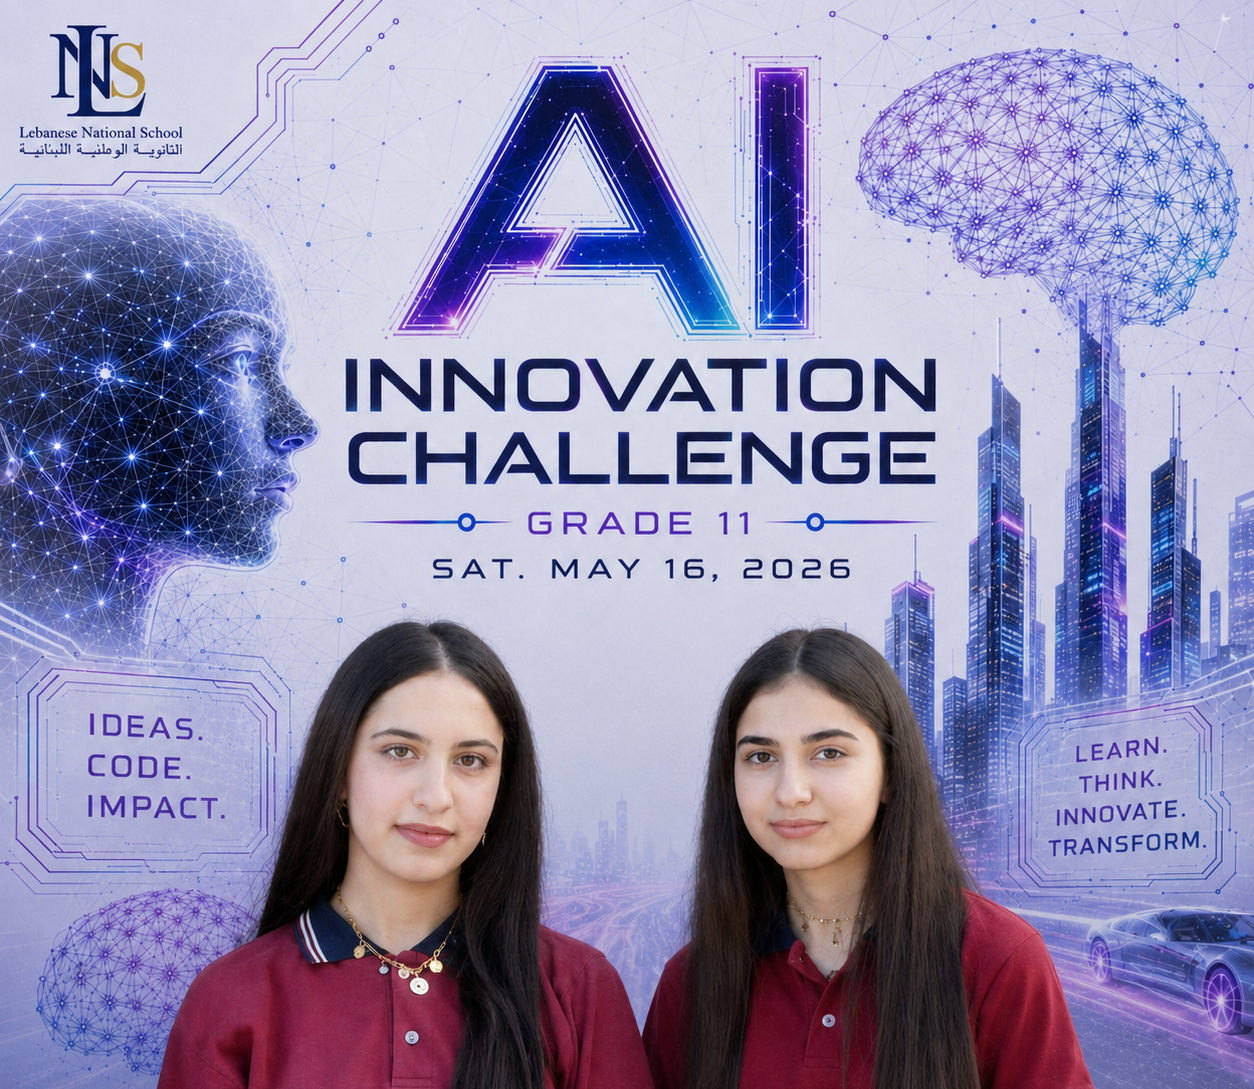
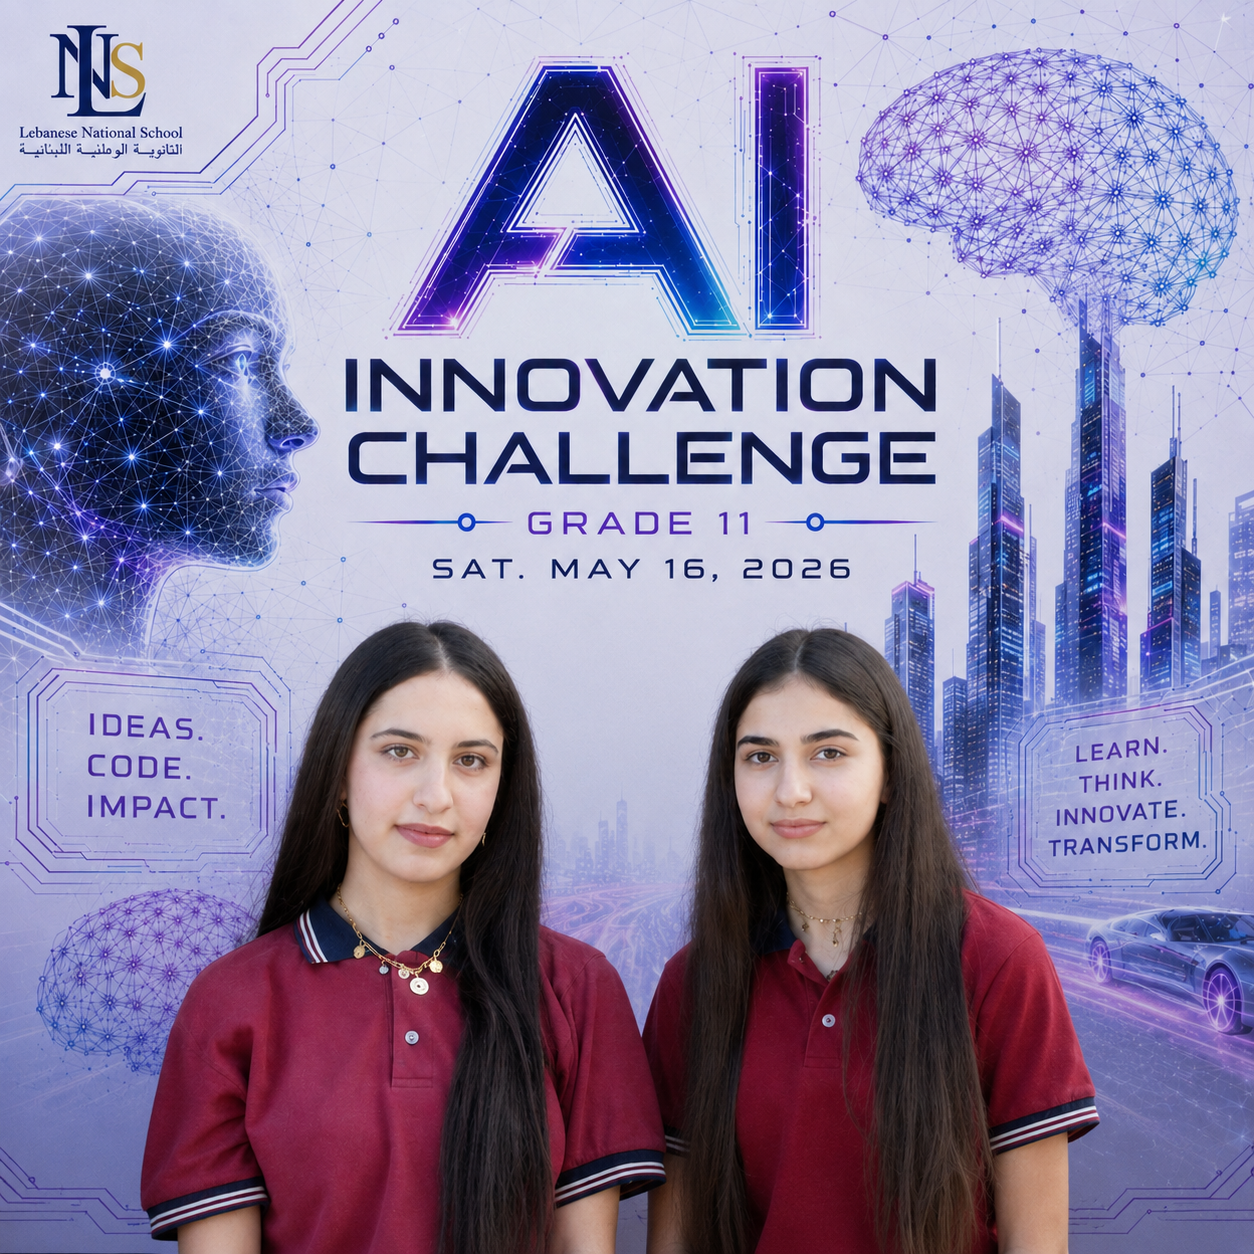
Update group images and enhance voting page styles

diff --git a/Grade 10+11+12/AI System Design/voting.html b/Grade 10+11+12/AI System Design/voting.html
@@ -331,11 +331,11 @@ body::after {
 
 /* ── JUDGE & STUDENT GRIDS ── */
 .group-grid { display: grid; grid-template-columns: repeat(auto-fill, minmax(140px, 1fr)); gap: 16px; margin-bottom: 24px; }
-.group-card { position: relative; cursor: pointer; border-radius: 14px; overflow: hidden; background: rgba(255,255,255,0.05); border: 2px solid rgba(255,255,255,0.1); transition: all 0.2s; }
+.group-card { position: relative; cursor: pointer; border-radius: 14px; overflow: hidden; background: rgba(255,255,255,0.05); border: 2px solid rgba(255,255,255,0.1); transition: all 0.2s; aspect-ratio: 1; }
 .group-card:hover { border-color: var(--gold); transform: translateY(-2px); }
 .group-card.voted { border-color: var(--gold); background: rgba(245,186,56,0.1); }
 .group-card.selected { border-color: var(--gold); background: rgba(245,186,56,0.2); }
-.group-card img { width: 100%; height: 140px; object-fit: cover; display: block; }
+.group-card img { width: 100%; height: 100%; object-fit: cover; display: block; }
 .group-card .card-label { padding: 10px 8px; font-family: 'Barlow Condensed', sans-serif; font-size: 0.75rem; font-weight: 700; color: var(--white); text-align: center; line-height: 1.2; }
 .group-card::after { content: '✓'; position: absolute; top: 6px; right: 6px; width: 28px; height: 28px; background: var(--gold); color: var(--navy); border-radius: 50%; display: flex; align-items: center; justify-content: center; font-size: 1.2rem; font-weight: 700; opacity: 0; transition: opacity 0.2s; }
 .group-card.voted::after { opacity: 1; }
@@ -344,7 +344,6 @@ body::after {
 .student-grid .section-heading { margin-bottom: 16px; }
 .student-grid .group-grid { grid-template-columns: repeat(auto-fill, minmax(120px, 1fr)); gap: 12px; }
 .student-grid .group-card { border: 1px solid rgba(255,255,255,0.1); }
-.student-grid .group-card img { height: 110px; }
 .student-grid .group-card .card-label { padding: 8px 6px; font-size: 0.7rem; }
 
 .judge-grid-section { margin-bottom: 24px; }
@@ -359,15 +358,12 @@ body::after {
 @media (max-width: 768px) {
   .group-grid { grid-template-columns: repeat(auto-fill, minmax(110px, 1fr)); gap: 12px; }
   .judge-grid-container .group-grid { grid-template-columns: repeat(auto-fill, minmax(130px, 1fr)); }
-  .judge-grid-container .group-card img { height: 130px; }
-  .group-card img { height: 110px; }
+  .group-card .card-label { padding: 8px 6px; font-size: 0.7rem; }
 }
 
 @media (max-width: 600px) {
   .group-grid { grid-template-columns: repeat(auto-fill, minmax(100px, 1fr)); gap: 10px; }
   .judge-grid-container .group-grid { grid-template-columns: repeat(auto-fill, minmax(100px, 1fr)); }
-  .group-card img { height: 100px; }
-  .judge-grid-container .group-card img { height: 100px; }
 }
 </style>
 </head>

diff --git a/index.html b/index.html
@@ -212,6 +212,40 @@
             margin-top: 8px;
         }
 
+        .powered-by {
+            color: #6b7280;
+            font-size: 0.75rem;
+            text-align: center;
+            margin-top: 16px;
+            padding-top: 12px;
+            border-top: 1px solid rgba(255, 255, 255, 0.1);
+        }
+
+        .powered-by a {
+            color: #9ca3af;
+            text-decoration: none;
+            transition: color 0.2s;
+            margin: 0 4px;
+        }
+
+        .powered-by a:hover {
+            color: #ffff00;
+        }
+
+        .whatsapp-icon {
+            display: inline-flex;
+            align-items: center;
+            gap: 4px;
+        }
+
+        .whatsapp-icon svg {
+            transition: transform 0.2s;
+        }
+
+        .whatsapp-icon:hover svg {
+            transform: scale(1.2);
+        }
+
         @media(max-width:500px) {
             .grid {
                 grid-template-columns: 1fr;
@@ -363,6 +397,16 @@
 
         </div>
         <footer>© 2026 Tech &amp; AI Classes · Empowering the next generation of innovators</footer>
+        <div class="powered-by">
+            Powered by MY Web Services<br>
+            <a href="tel:+96170865988">📞 +961 70865988</a>
+            <a href="https://wa.me/96170865988" class="whatsapp-icon" target="_blank" title="Chat on WhatsApp">
+                <svg width="16" height="16" viewBox="0 0 24 24" fill="currentColor">
+                    <path d="M17.472 14.382c-.297-.149-1.758-.867-2.03-.967-.273-.099-.471-.148-.67.15-.197.297-.767.966-.94 1.164-.173.199-.347.223-.644.075-.297-.15-1.255-.463-2.39-1.475-.883-.788-1.48-1.761-1.653-2.059-.173-.297-.018-.458.13-.606.134-.133.298-.347.446-.52.149-.174.198-.298.298-.497.099-.198.05-.371-.025-.52-.075-.149-.669-1.612-.916-2.207-.242-.579-.487-.5-.669-.51-.173-.008-.371-.01-.57-.01-.198 0-.52.074-.792.372-.272.297-1.04 1.016-1.04 2.479 0 1.462 1.065 2.875 1.213 3.074.149.198 2.096 3.2 5.077 4.487.709.306 1.262.489 1.694.625.712.227 1.36.195 1.871.118.571-.085 1.758-.719 2.006-1.413.248-.694.248-1.289.173-1.413-.074-.124-.272-.198-.57-.347m-5.421 7.403h-.004a9.87 9.87 0 01-5.031-1.378l-.361-.214-3.741.982.998-3.648-.235-.374a9.86 9.86 0 01-1.51-5.26c.001-5.45 4.436-9.884 9.888-9.884 2.64 0 5.122 1.03 6.988 2.898a9.825 9.825 0 012.893 6.994c-.003 5.45-4.437 9.884-9.885 9.884m8.413-18.297A11.815 11.815 0 0012.05 0C5.495 0 .16 5.335.157 11.892c0 2.096.547 4.142 1.588 5.945L.057 24l6.305-1.654a11.882 11.882 0 005.683 1.448h.005c6.554 0 11.89-5.335 11.893-11.893a11.821 11.821 0 00-3.48-8.413z" />
+                </svg>
+            </a>
+            | <a href="mailto:yousef.r.younis@gmail.com">📧 yousef.r.younis@gmail.com</a>
+        </div>
     </div>
 
     <script>
